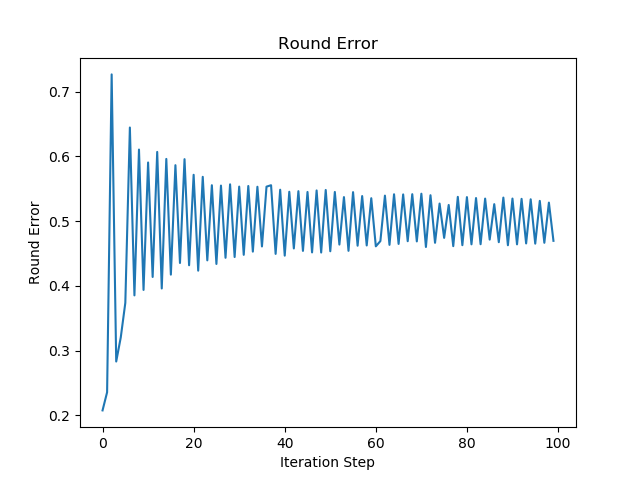
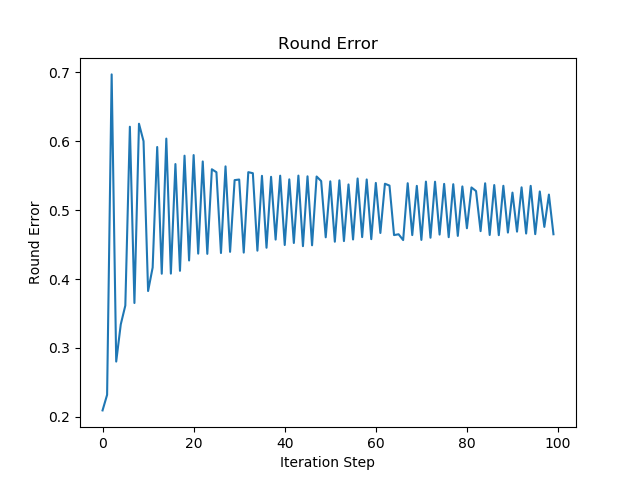
added Adaboost using Random decision stumps

diff --git a/AdaBoost/adaboost_random.py b/AdaBoost/adaboost_random.py
@@ -1,0 +1,253 @@
+import numpy as np
+import pandas as pd
+from sklearn import preprocessing
+from sklearn.model_selection import train_test_split
+from sklearn.metrics import accuracy_score, auc, roc_curve
+import matplotlib.pyplot as plt
+import random
+
+
+class AdaBoost:
+
+    def __init__(self, col_names):
+        self.data, self.labels = AdaBoost.get_data(col_names)
+        self.data = AdaBoost.normalize(self.data)
+
+    @staticmethod
+    def get_data(names):
+        data_frame = pd.read_csv('./data/spambase', sep=',')
+        data_frame.columns = names
+
+        labels = data_frame['spam_label'].values
+
+        # replace 0 labels with -1
+        labels[labels == 0] = -1
+
+        data_frame = data_frame.drop('spam_label', axis=1)
+
+        return data_frame, labels
+
+    @staticmethod
+    def normalize(dataset):
+        return preprocessing.minmax_scale(dataset, feature_range=(0, 1))
+
+    def fit(self, num_weak_learners=100):
+        train_data, test_data, train_label, test_label = train_test_split(self.data, self.labels, test_size=0.25)
+
+        # train for the training data
+        models, summary = AdaBoost.train(train_data, train_label, test_data, test_label, num_weak_learners)
+
+        # plot round errors
+        AdaBoost.plot_round_error(summary[:, 0])
+
+        # plot train/test errors
+        AdaBoost.plot_train_test_error(summary[:, 1], summary[:, 2])
+
+        # plot test AUC scores
+        AdaBoost.plot_auc(summary[:, 3])
+
+        # get predictions for test data using final models
+        test_predictions = WeakLearner.get_prediction(models, test_data)
+
+        # plot roc
+        AdaBoost.plot_roc(test_label, test_predictions)
+
+    @staticmethod
+    def plot_round_error(round_errors):
+        plt.xlabel('Iteration Step')
+        plt.ylabel('Round Error')
+        plt.title('Round Error')
+        plt.plot(round_errors)
+        plt.savefig('./plots/random_round_error.png')
+        plt.close()
+
+    @staticmethod
+    def plot_train_test_error(train_error, test_error):
+        num_itrs = train_error.shape[0]
+        itrs = np.arange(num_itrs)
+
+        plt.xlabel('Iteration Step')
+        plt.ylabel('Train/Test Error (Red/Blue)')
+        plt.title('Train/Test Error (Red/Blue)')
+
+        plt.plot(itrs, train_error, 'r-', label='Train Error')
+        plt.plot(itrs, test_error, 'b-', label='Test Error')
+
+        # add legend
+        plt.legend(loc='upper right')
+
+        plt.savefig('./plots/random_train_test_error.png')
+        plt.close()
+
+    @staticmethod
+    def plot_auc(aucs):
+        plt.xlabel('Iteration Step')
+        plt.ylabel('AUC')
+        plt.title('AUC')
+        plt.plot(aucs)
+        plt.savefig('./plots/random_auc.png')
+        plt.close()
+
+    @staticmethod
+    def plot_roc(truth, preds):
+        fprs, tprs, _ = roc_curve(truth, preds)
+
+        plt.title('ROC')
+        plt.xlabel('False Positive Rate')
+        plt.ylabel('True Positive Rate')
+
+        plt.plot(fprs, tprs, label='AUC: {}'.format(auc(fprs, tprs)))
+        plt.legend(loc='lower right')
+
+        plt.savefig('./plots/random_roc.png')
+        plt.close()
+
+    @staticmethod
+    def train(train_data, train_label, test_data, test_label, num_weak_learners):
+
+        models = []
+        summary = np.empty(shape=(num_weak_learners, 4))
+
+        # initialize weights to 1/num_of_data_points (uniform distribution)
+        wts = np.full(train_data.shape[0], (1 / train_data.shape[0]))
+
+        # get all unique thresholds in sorted order
+        thresholds = WeakLearner.get_thresholds(train_data)
+
+        # pick midpoints from the thresholds
+        thresholds = WeakLearner.get_midpoints(thresholds)
+
+        for ep in range(num_weak_learners):
+            # get predictor using different decision stump selection techniques
+            model = WeakLearner.get_tree_predictor(train_data, thresholds, train_label, wts)
+
+            # model prediction error
+            error = model.error
+
+            # calculate alpha for this model
+            model.alpha = 0.5 * np.log((1 - error) / (error + 1e-10))
+
+            preds = np.ones(np.shape(train_label))
+            preds[train_data[:, model.feature] <= model.threshold] = -1
+
+            # update wts to assign more importance to incorrect data points
+            wts *= np.exp(-model.alpha * train_label * preds)
+            wts /= np.sum(wts)
+
+            models.append(model)
+
+            train_error, _ = AdaBoost.get_error(models, train_data, train_label)
+            test_error, auc_score = AdaBoost.get_error(models, test_data, test_label)
+
+            # add to summary all the values needed for plotting
+            summary[ep] = [model.error, train_error, test_error, auc_score]
+
+            print('Round: {}  |  Feature: {}  |  Threshold: {}  |  Round_error: {}  |  Train_error: {}  |  '
+                  'Test_error: {}  |  AUC: {}'.format(ep+1, model.feature, model.threshold, model.error, train_error,
+                                                      test_error, auc_score))
+
+        return models, summary
+
+    @staticmethod
+    def get_error(models, data, label):
+        preds = WeakLearner.get_prediction(models, data)
+        acc = accuracy_score(label, preds)
+
+        fpr, tpr, thresholds = roc_curve(label, preds)
+        auc_score = auc(fpr, tpr)
+        return 1 - acc, auc_score
+
+
+class Node:
+
+    def __init__(self, feature, threshold):
+        self.feature = feature
+        self.threshold = threshold
+        self.alpha = None
+        self.error = None
+        self.max_diff = None
+
+
+class WeakLearner:
+
+    @staticmethod
+    def get_thresholds(data):
+        thresholds = []
+
+        for i in range(data.shape[1]):
+            uniques = np.unique(data[:, i])
+            thresholds.append(uniques)
+
+        return np.array(thresholds)
+
+    @staticmethod
+    def get_midpoints(data):
+        thresholds = []
+
+        for i in range(len(data)):
+            thres = data[i]
+            thresholds.append((thres[1:] + thres[:-1]) / 2)
+
+        return np.array(thresholds)
+
+    @staticmethod
+    def get_tree_predictor(dataset, thresholds, labels, wts):
+
+        # pick random feature
+        feature = random.randint(0, dataset.shape[1]-1)
+
+        # pick random threshold
+        threshold = np.random.choice(thresholds[feature])
+
+        # build the weak learner
+        tree = Node(feature, threshold)
+
+        # find error for this weak learner
+        tree.error = WeakLearner.predict(tree, dataset, labels, wts)
+
+        return tree
+
+    @staticmethod
+    def predict(model, test_data, labels, wts):
+        feature = model.feature
+        threshold = model.threshold
+
+        # initialize with all 1s for predictions
+        prediction = np.ones(np.shape(labels))
+
+        # change all predictions less than threshold to -1
+        prediction[test_data[:, feature] <= threshold] = -1
+
+        return np.sum(wts[prediction != labels])
+
+    @staticmethod
+    def get_prediction(models, test_data):
+
+        prediction = np.zeros((test_data.shape[0], ))
+
+        for m in models:
+            pred = np.ones(test_data.shape[0])
+            pred[test_data[:, m.feature] <= m.threshold] = -1
+
+            prediction += m.alpha * pred
+
+        prediction = np.sign(prediction).flatten()
+
+        return prediction
+
+
+column_names = ['word_freq_make', 'word_freq_address', 'word_freq_all', 'word_freq_3d', 'word_freq_our',
+                'word_freq_over', 'word_freq_remove', 'word_freq_internet', 'word_freq_order', 'word_freq_mail',
+                'word_freq_receive', 'word_freq_will', 'word_freq_people', 'word_freq_report', 'word_freq_addresses',
+                'word_freq_free', 'word_freq_business', 'word_freq_email', 'word_freq_you',
+                'word_freq_credit', 'word_freq_your', 'word_freq_font', 'word_freq_000', 'word_freq_money',
+                'word_freq_hp', 'word_freq_hpl', 'word_freq_george', 'word_freq_650', 'word_freq_lab',
+                'word_freq_labs', 'word_freq_telnet', 'word_freq_857', 'word_freq_data', 'word_freq_415',
+                'word_freq_85', 'word_freq_technology', 'word_freq_1999', 'word_freq_parts', 'word_freq_pm',
+                'word_freq_direct', 'word_freq_cs', 'word_freq_meeting', 'word_freq_original', 'word_freq_project',
+                'word_freq_re', 'word_freq_edu', 'word_freq_table', 'word_freq_conference', 'char_freq_;',
+                'char_freq_(', 'char_freq_[', 'char_freq_!', 'char_freq_$', 'char_freq_#', 'capital_run_length_average',
+                'capital_run_length_longest', 'capital_run_length_total', 'spam_label']
+
+ada_boost = AdaBoost(column_names)
+ada_boost.fit(num_weak_learners=2000)
